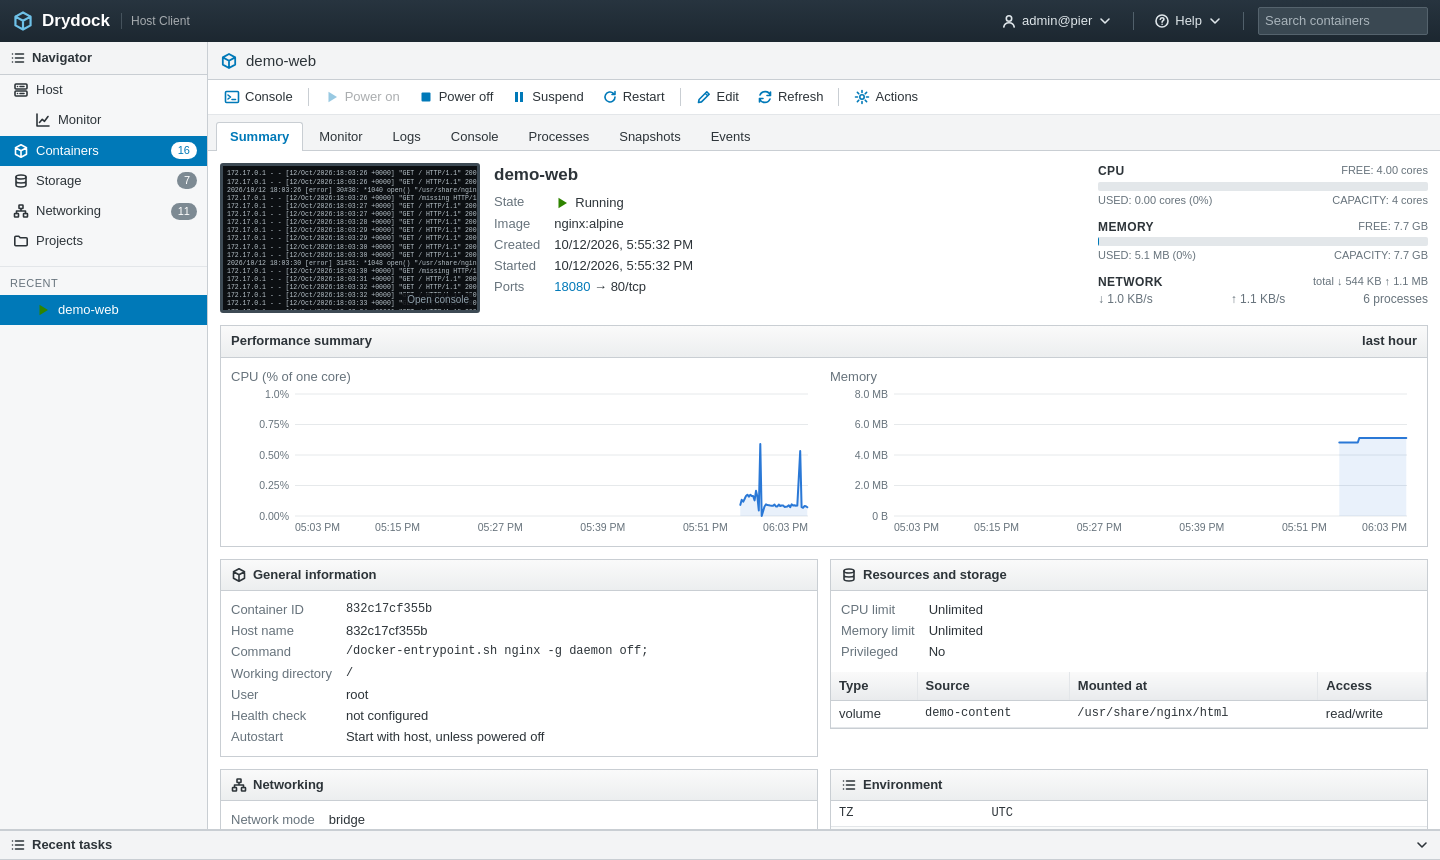
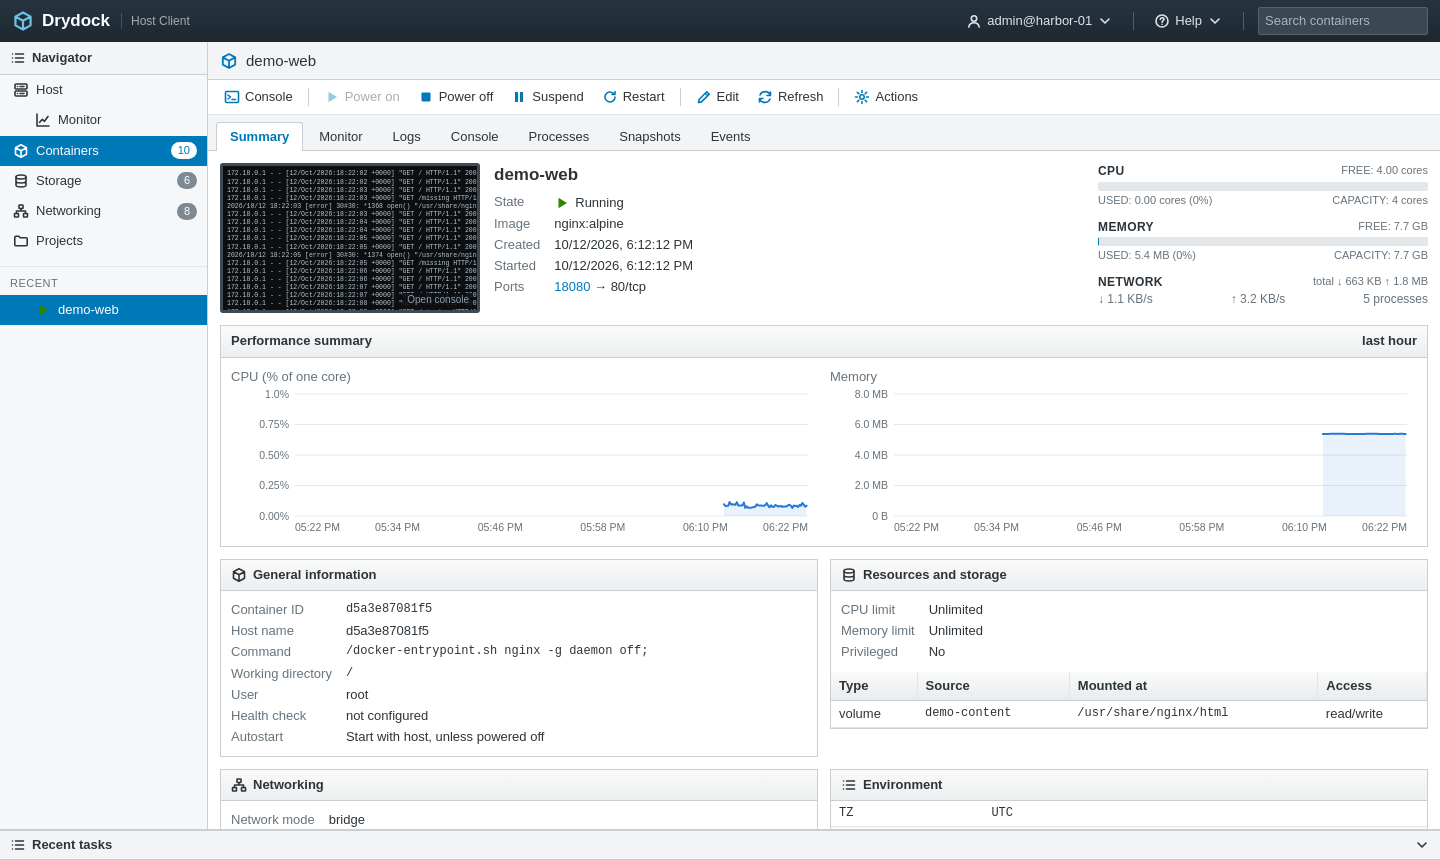
Add set-password.sh, retake screenshots on a demo host (1.0.1)
- set-password.sh changes the console password and re-creates the
  container so it takes effect; editing .env alone never did. Documented
  in the README, installation, security and troubleshooting guides.
- Screenshots now come from a demonstration host with demo containers.
- CPU charts no longer repeat axis labels at very low usage.
- The compose file inside a bundle references the bundled image.

diff --git a/drydock/ops.py b/drydock/ops.py
@@ -13,7 +13,7 @@ import zipfile
 from . import dockerapi as d
 from . import store
 
-VERSION = "1.0.0"
+VERSION = "1.0.1"
 DATA = store.DATA
 ROOT = os.path.realpath(store.ROOT)
 EXPORTS = os.path.join(DATA, "exports")

diff --git a/README.md b/README.md
@@ -57,7 +57,9 @@ Then build and start it:
 docker compose up -d --build
 ```
 
-Open `http://<host>:9000` and sign in as `admin` with the password you set. The full
+Open `http://<host>:9000` and sign in as `admin` with the password you set. To change the
+password later, run `./set-password.sh`: editing `.env` alone does not affect a running
+container. The full
 walkthrough, including upgrades and running behind a reverse proxy, is in
 [docs/installation.md](docs/installation.md).
 
@@ -150,6 +152,10 @@ All settings are environment variables, read from `.env` by the compose file.
 | `DRYDOCK_PROJECTS_ROOT` | *(required)* | Directory scanned for projects. Mounted read-only. |
 | `DRYDOCK_DATA` | *(required)* | Absolute host path for metrics history, exports and imported projects. |
 
+Settings are read when the container is created, so after editing `.env` run
+`docker compose up -d` to apply them. For the password there is a script that does both
+steps: `./set-password.sh` (or `./set-password.sh --generate` for a random one).
+
 Both paths are mounted into the container at the same path they have on the host. That is
 deliberate: see [docs/architecture.md](docs/architecture.md#same-path-mounts).
 
@@ -157,7 +163,7 @@ deliberate: see [docs/architecture.md](docs/architecture.md#same-path-mounts).
 
 | Guide | What it covers |
 |---|---|
-| [Installation](docs/installation.md) | Requirements, setup, upgrading, backups, reverse proxy, uninstalling. |
+| [Installation](docs/installation.md) | Requirements, setup, changing the password, upgrading, backups, reverse proxy, uninstalling. |
 | [User guide](docs/user-guide.md) | Every view and action in the console. |
 | [Import and export](docs/import-export.md) | Projects, bundles, image archives, Git, and the bundle format. |
 | [API reference](docs/api.md) | The HTTP API the console itself uses. |

diff --git a/docs/installation.md b/docs/installation.md
@@ -45,7 +45,9 @@ The build downloads the base image and three Alpine packages; nothing else is fe
    - `DRYDOCK_DATA` must be an **absolute path on the host**. The directory is created on
      first start. It may sit inside the projects root.
 
-   Keep `.env` private: `chmod 600 .env`.
+   Keep `.env` private: `chmod 600 .env`. To change the password later, use
+   `./set-password.sh` rather than editing the file; see
+   [Changing the password](#changing-the-password).
 
 4. Build and start.
 
@@ -70,15 +72,37 @@ Trends page becomes meaningful after a few hours.
 The container restarts automatically with the host (`restart: unless-stopped`) and reports
 its health on `/healthz`.
 
-## Changing settings
+## Changing the password
 
-Edit `.env`, then apply:
+Run the script that ships with Drydock, from the project directory:
+
+```bash
+./set-password.sh
+```
+
+It asks for the new password twice, writes it to `.env` and re-creates the container so it
+takes effect. To have a strong random password generated and printed instead:
+
+```bash
+./set-password.sh --generate
+```
+
+Passwords need at least 8 characters and cannot contain single quotes or backslashes.
+Everyone who is signed in has to sign in again afterwards.
+
+**Editing `.env` by hand is not enough on its own.** Drydock receives its password as an
+environment variable when its container is created, and a running container keeps the
+value it started with. If you change `.env` in an editor, apply it yourself:
 
 ```bash
 docker compose up -d
 ```
 
-Changing the password this way signs everyone out.
+## Changing other settings
+
+The same rule applies to every setting: edit `.env`, then run `docker compose up -d` so
+the container is re-created with the new values. A plain `docker restart drydock` does
+**not** pick up changes.
 
 ## Running behind a reverse proxy
 

diff --git a/docs/troubleshooting.md b/docs/troubleshooting.md
@@ -28,12 +28,29 @@ Rootless Docker and some desktop installations keep it elsewhere. Find it with
 
 ### "Cannot complete login due to an incorrect user name or password"
 
-The credentials are the ones in `.env` **at the time the container was created**. After
-editing `.env`, run `docker compose up -d` so the container is re-created with the new
-values. Check what the running container has with:
+The credentials are the ones in `.env` **at the time the container was created**. See the
+next entry if you have changed them since. Check which user name the running container
+has with:
 
 ```bash
 docker exec drydock printenv DRYDOCK_USER
+```
+
+### I changed the password in `.env` but the old one still works
+
+Editing `.env` does not reach a running container: Drydock is handed its password when the
+container is created and keeps that value until it is re-created. Restarting the container
+is not enough either. Apply the change with:
+
+```bash
+docker compose up -d
+```
+
+Next time, use the bundled script, which updates `.env` and re-creates the container in one
+step:
+
+```bash
+./set-password.sh
 ```
 
 ### Signed out unexpectedly

diff --git a/CHANGELOG.md b/CHANGELOG.md
@@ -1,5 +1,14 @@
 # Changelog
 
+## 1.0.1 - 2026-10-12
+
+- Added `set-password.sh`, which changes the console password and re-creates the container
+  so the change takes effect. Editing `.env` alone never affected a running container; the
+  documentation now says so plainly.
+- CPU charts no longer repeat axis labels when usage is very low.
+- The compose file inside a bundle now references the image the bundle actually contains.
+- Screenshots retaken on a demonstration host.
+
 ## 1.0.0 - 2026-10-12
 
 First release.

diff --git a/docs/security.md b/docs/security.md
@@ -50,7 +50,7 @@ Be clear about the gaps.
 ## Recommended deployment
 
 1. **Use a long, random password** and keep `.env` readable only by you
-   (`chmod 600 .env`).
+   (`chmod 600 .env`). `./set-password.sh --generate` creates and applies one.
 2. **Keep the port off the internet.** Do not forward it on your router.
 3. **Add TLS** with a reverse proxy when anyone else shares the network, and publish
    Drydock on loopback so the proxy is the only way in. See

diff --git a/docs/import-export.md b/docs/import-export.md
@@ -159,7 +159,7 @@ source/<project>/       the project directory, when requested
   "format": "drydock-bundle/1",
   "created": 1791827120.22,
   "drydock": "1.0.0",
-  "host": "pier",
+  "host": "harbor-01",
   "source": null,
   "containers": [
     {
